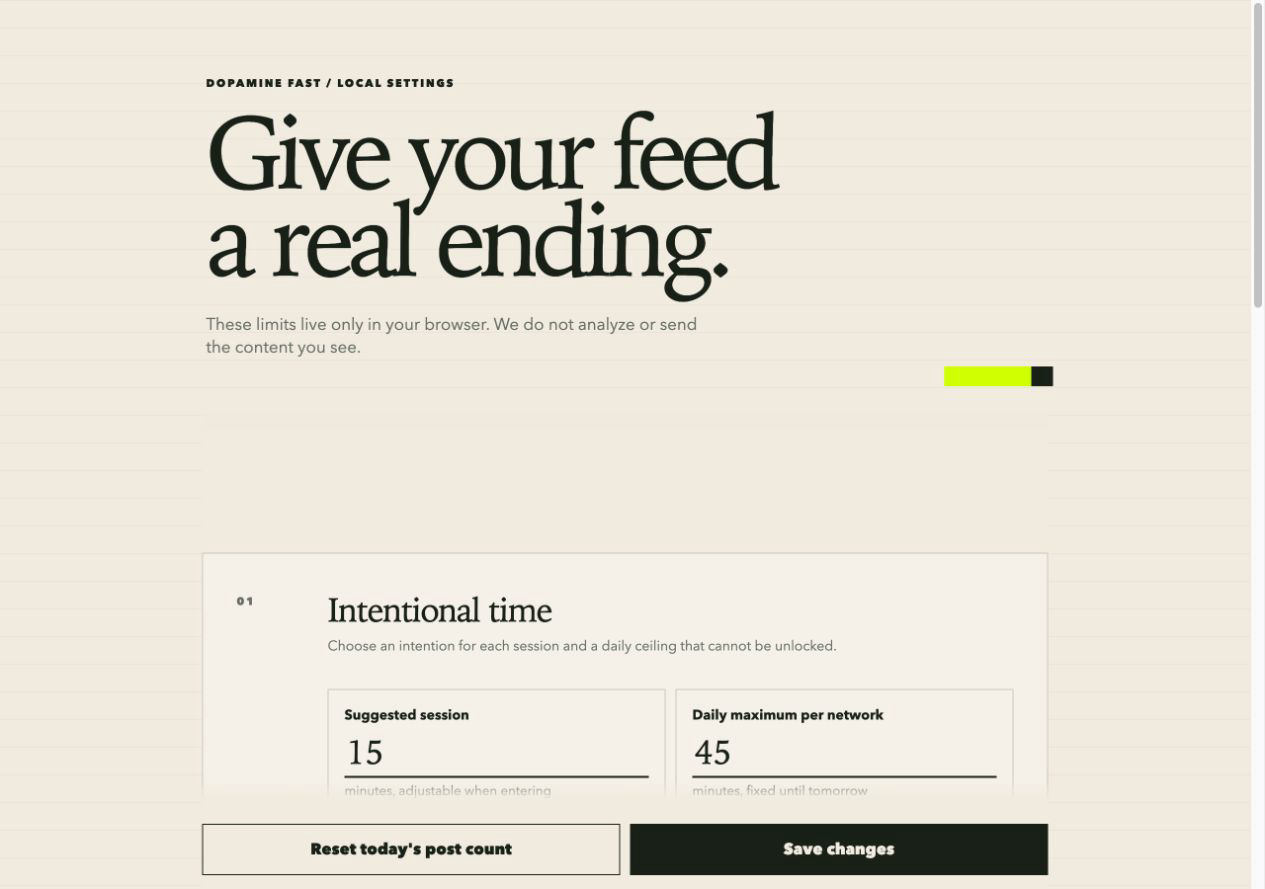
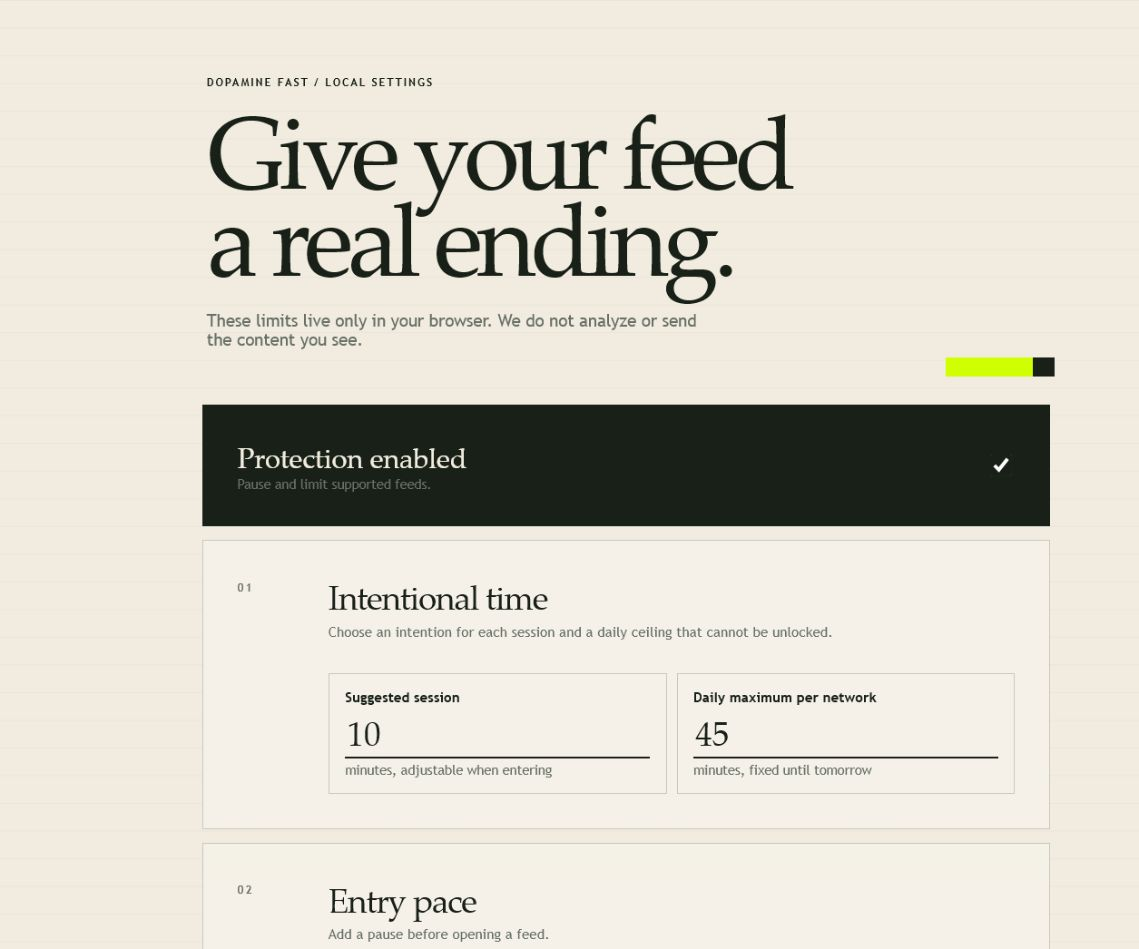
docs: refresh extension screenshots

diff --git a/docs/STORE_LISTING.md b/docs/STORE_LISTING.md
@@ -1,0 +1,14 @@
+# Store listing screenshots
+
+The screenshots in `docs/screenshots/` are the canonical assets for both the
+README and the Firefox Add-ons listing. Upload them to AMO in this order:
+
+1. `settings.png` — **Set intentional limits locally.** Configure session
+   length, daily ceilings, feed size, and network-specific protections.
+2. `opening-pause.png` — **Pause before entering a feed.** Review today's use
+   and choose a defined session with deliberate time steps.
+3. `end-of-batch.png` — **Give every feed a visible ending.** Load another
+   finite batch only after reaching the inline boundary and holding the button.
+
+These images use representative, non-platform content. They avoid account
+details and third-party posts while showing the extension's current interface.

diff --git a/README.md b/README.md
@@ -49,6 +49,11 @@ of loading more posts automatically.
 
 ![Opening pause on a mobile feed](docs/screenshots/opening-pause.png)
 
+The boundary stays inside the native feed and requires a deliberate press and
+hold before the next finite batch is revealed.
+
+![Inline end-of-batch control](docs/screenshots/end-of-batch.png)
+
 ## Features
 
 - Configurable delay before entering a supported feed.
